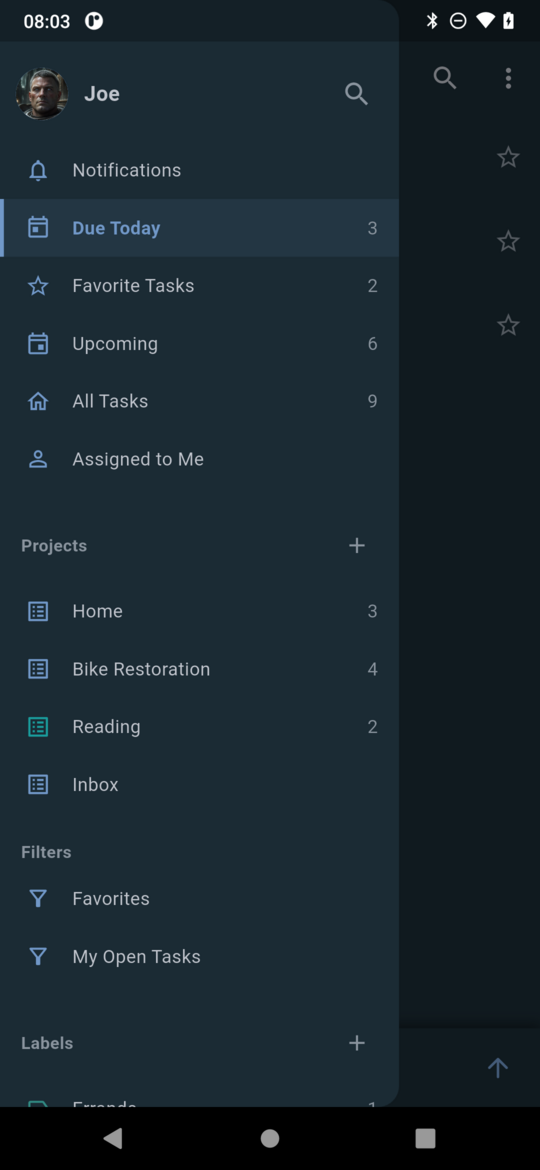
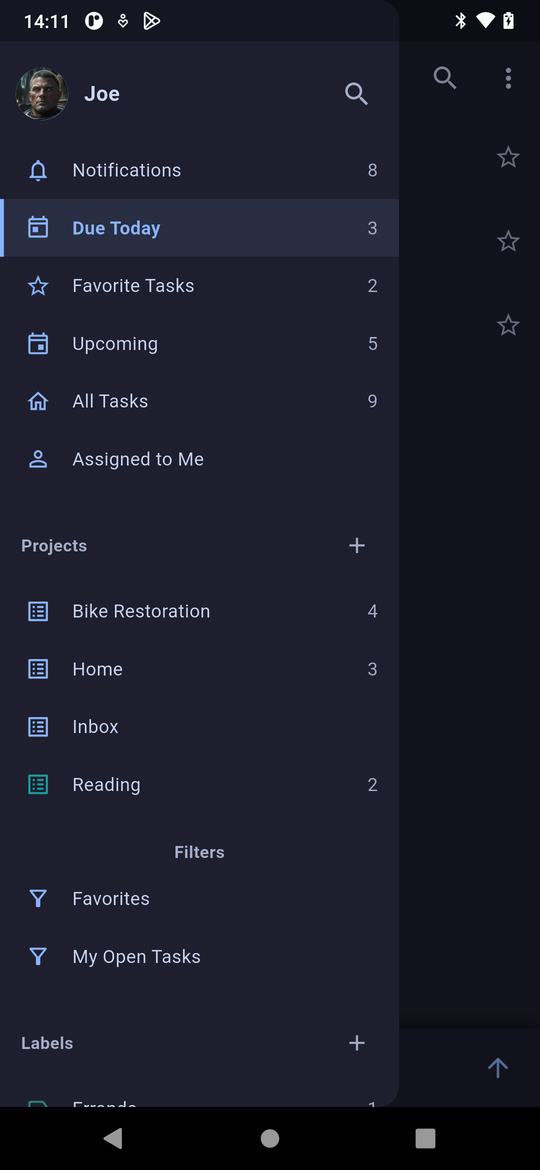
Refresh the screenshots for the drawer, sort menu and About box

diff --git a/README.md b/README.md
@@ -42,6 +42,11 @@ create here, no analytics, and no Sloth service in the middle.
 </p>
 
 <p align="center">
+  <img src="docs/screenshots/sort-menu.png" width="270" alt="Overflow menu: sort by due date or A→Z">
+  <img src="docs/screenshots/about.png" width="270" alt="About box with version and repository link">
+</p>
+
+<p align="center">
   <img src="docs/screenshots/kanban.png" width="760" alt="Kanban board in landscape">
 </p>
 
